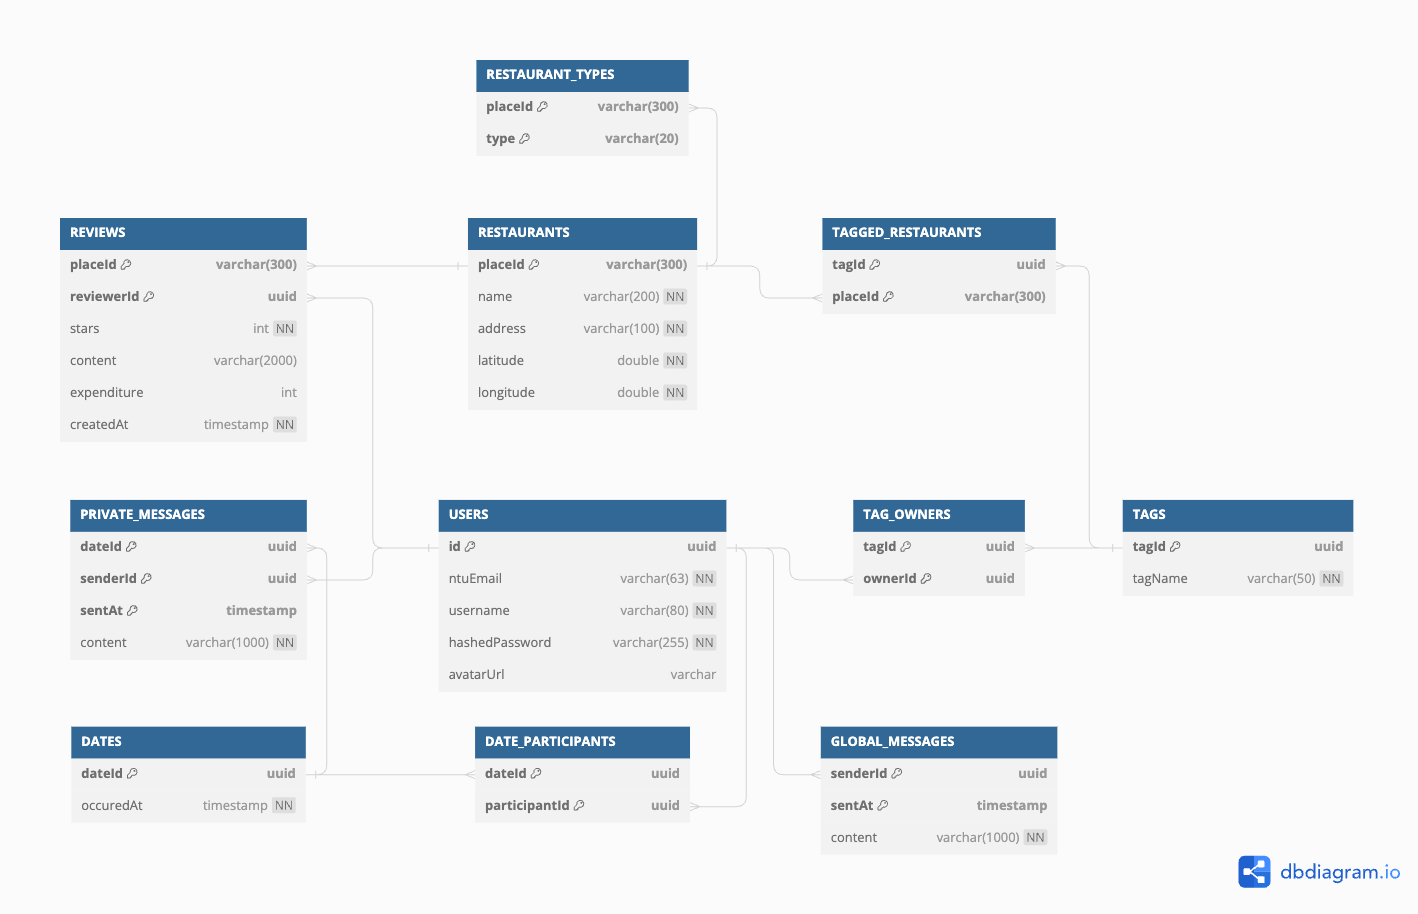
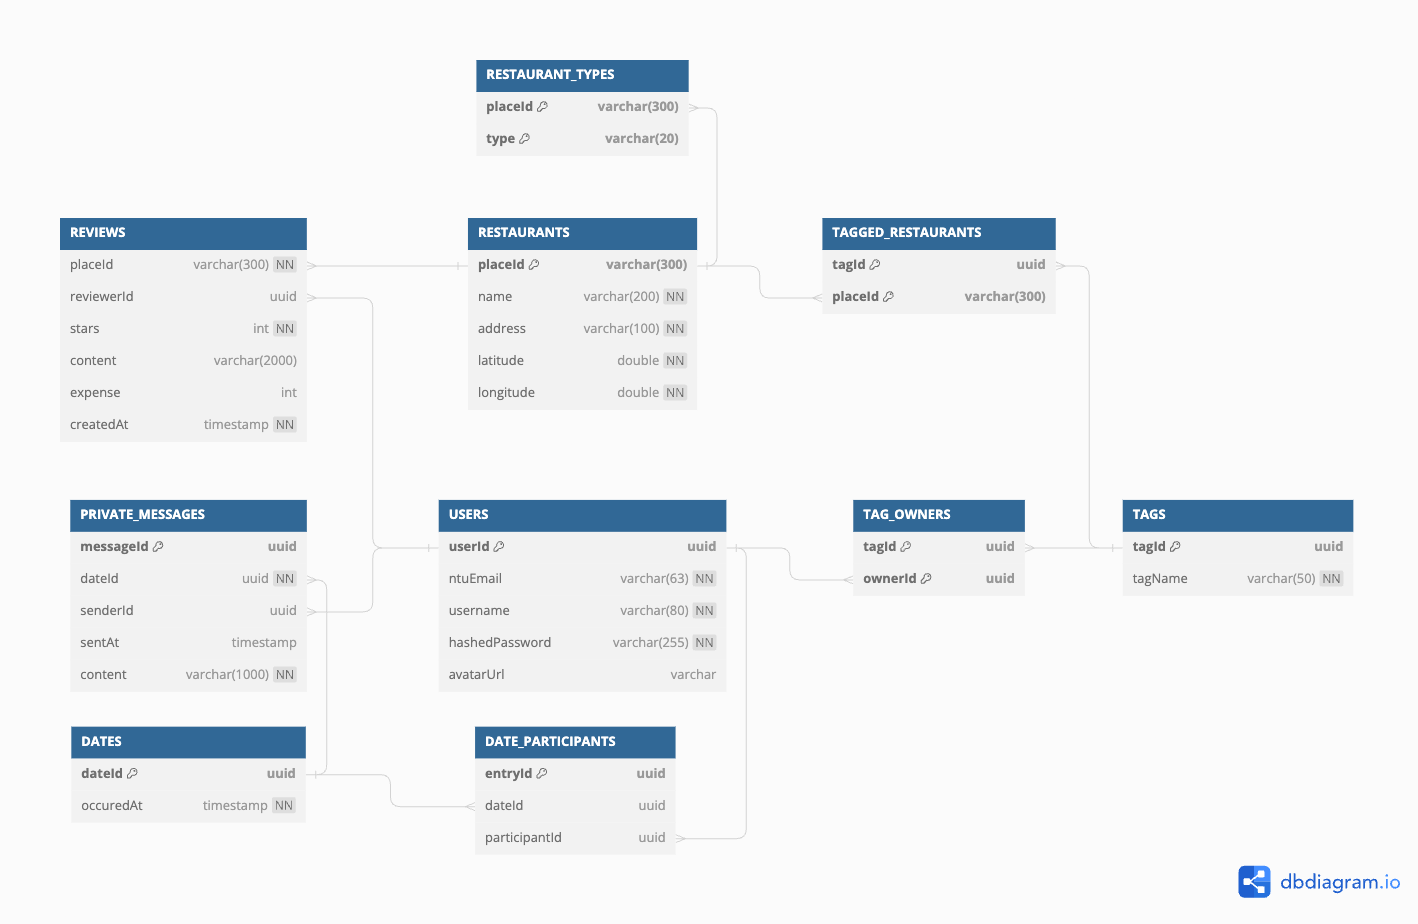
fix(db): fix referential triggers by adding uuids to relations

diff --git a/src/db/schema.ts b/src/db/schema.ts
@@ -80,13 +80,13 @@ export const restaurantTypesRelations = relations(
 export const reviewsTable = pgTable(
   "reviews",
   {
-    placeId: varchar("placeId", { length: 300 }).references(
-      () => restaurantsTable.placeId,
-      {
+    reviewId: uuid("reviewId").primaryKey().defaultRandom(),
+    placeId: varchar("placeId", { length: 300 })
+      .notNull()
+      .references(() => restaurantsTable.placeId, {
         onDelete: "cascade",
         onUpdate: "cascade",
-      }
-    ),
+      }),
     reviewerId: uuid("reviewerId").references(() => usersTable.userId, {
       onDelete: "set null",
       onUpdate: "cascade",
@@ -99,7 +99,6 @@ export const reviewsTable = pgTable(
       .notNull(),
   },
   (table) => ({
-    pk: primaryKey({ columns: [table.placeId, table.reviewerId] }),
     placeIdAndCreatedAtIndex: index("placeIdAndCreatedAtIndex").on(
       table.placeId,
       table.createdAt
@@ -220,6 +219,7 @@ export const datesRelations = relations(datesTable, ({ many }) => ({
 export const dateParticipantsTable = pgTable(
   "dateParticipants",
   {
+    entryId: uuid("entryId").primaryKey().defaultRandom(),
     dateId: uuid("dateId").references(() => datesTable.dateId, {
       onDelete: "cascade",
       onUpdate: "cascade",
@@ -230,7 +230,6 @@ export const dateParticipantsTable = pgTable(
     }),
   },
   (table) => ({
-    pk: primaryKey({ columns: [table.dateId, table.participantId] }),
     dateIdIndex: index("dateIdIndex").on(table.dateId),
   })
 );
@@ -259,12 +258,10 @@ export const privateMessagesTable = pgTable(
         onDelete: "cascade",
         onUpdate: "cascade",
       }),
-    senderId: uuid("senderId")
-      .notNull()
-      .references(() => usersTable.userId, {
-        onDelete: "set null",
-        onUpdate: "cascade",
-      }),
+    senderId: uuid("senderId").references(() => usersTable.userId, {
+      onDelete: "set null",
+      onUpdate: "cascade",
+    }),
     sentAt: timestamp("sentAt").default(sql`now()`),
     content: varchar("content", { length: 1000 }).notNull(),
   },
